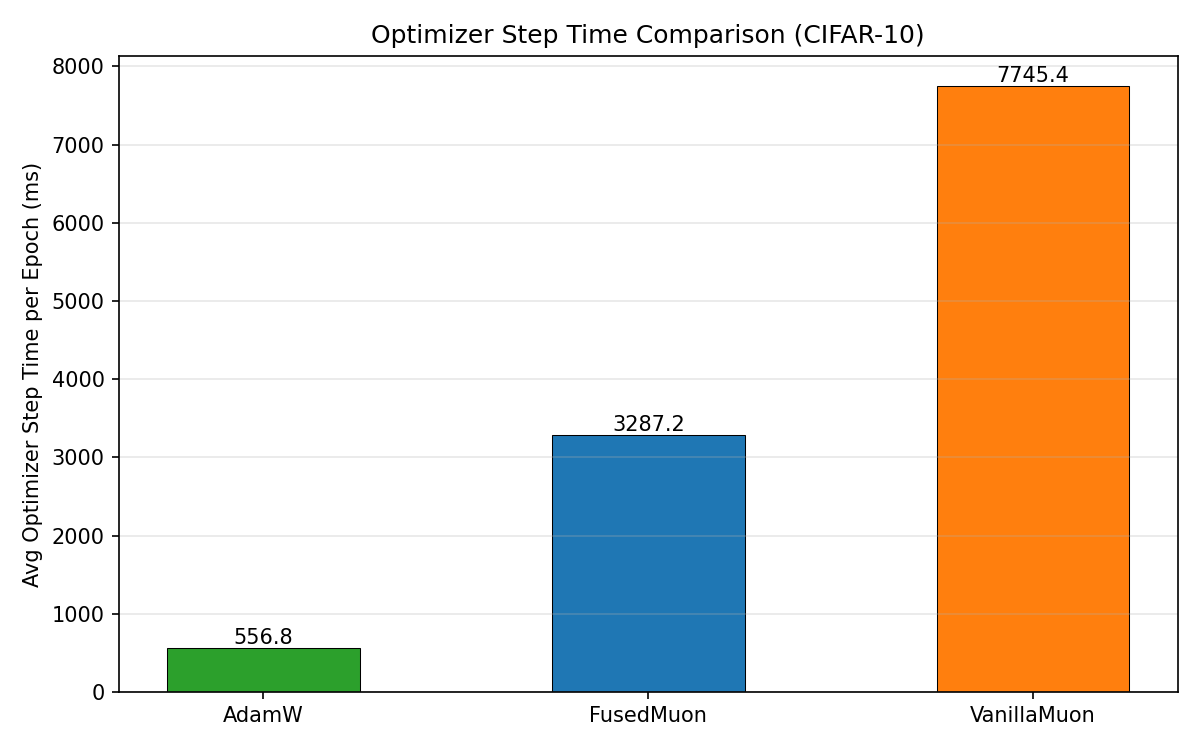
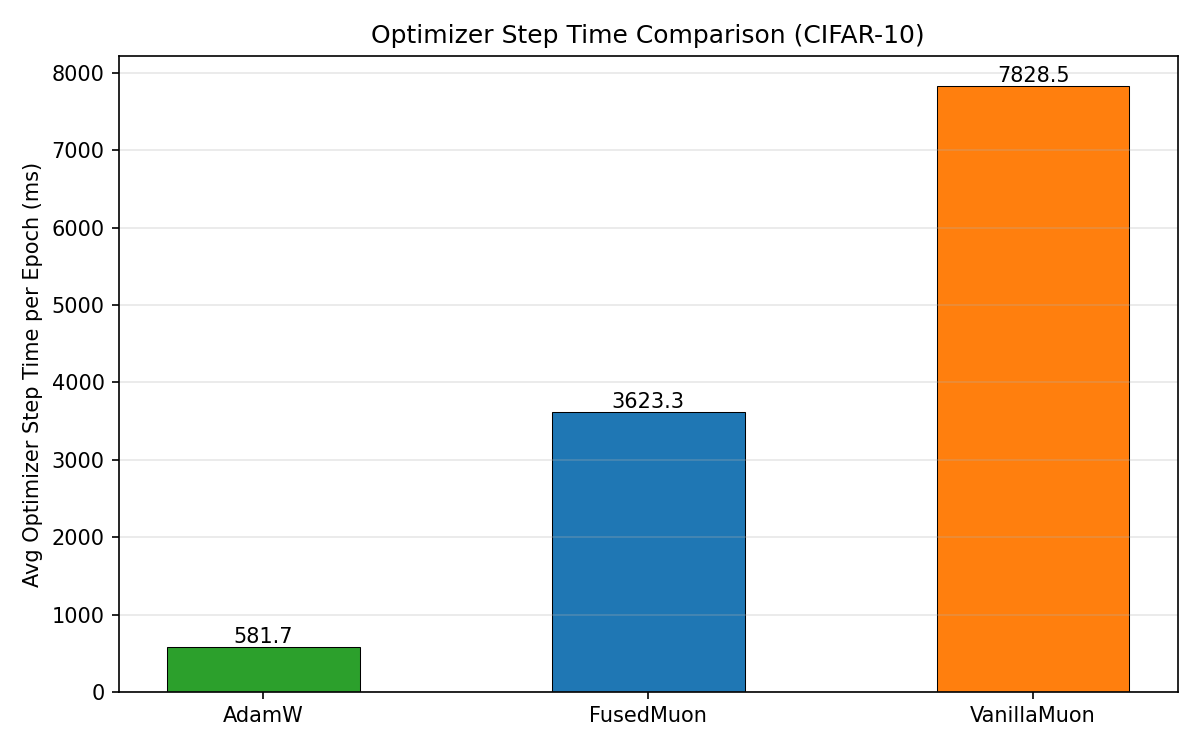
Update benchmarks with verified CUDA extension results
- Fixed: CUDA extension was silently falling back to PyTorch in previous benchmarks
- NS step speedup: 1.5x vs torch.compile (steady-state, all shapes)
- CIFAR-10 optimizer step: 2.1x faster (3.6s vs 7.6s per epoch)
- Kernel profiling confirms 1.79x CUDA time reduction (SYRK + fused epilogue)
- Regenerated all benchmark figures with correct data

diff --git a/README.md b/README.md
@@ -20,7 +20,7 @@
 
 ---
 
-Drop-in replacement for the [Muon optimizer](https://github.com/KellerJordan/Muon) that accelerates the Newton-Schulz orthogonalization by exploiting **matrix symmetry** with custom CuTe SYRK kernels. Achieves **up to 1.4x faster** per-step NS iteration with **identical training dynamics**.
+Drop-in replacement for the [Muon optimizer](https://github.com/KellerJordan/Muon) that accelerates the Newton-Schulz orthogonalization by exploiting **matrix symmetry** with custom CuTe SYRK kernels. Achieves **1.5x faster** NS iteration (vs `torch.compile`) with **identical training dynamics**.
 
 <p align="center">
   <img src="benchmarks/figures/optimizer_step_time.png" width="600"/>
@@ -81,21 +81,21 @@ X_ortho = fused_newton_schulz(G, steps=5)
 </tr>
 </table>
 
-> FusedMuon and VanillaMuon produce **identical training curves** (loss & accuracy overlap perfectly), confirming numerical equivalence. FusedMuon achieves measurably faster optimizer steps on this small-scale benchmark. The per-step NS iteration speedup (1.3–1.4x on large shapes) is the primary optimization target.
+> FusedMuon and VanillaMuon produce **identical training curves** (loss & accuracy overlap), confirming numerical equivalence. FusedMuon optimizer step is **2.1x faster** (3.6s vs 7.6s per epoch), reducing total training time by **31%** (201s vs 293s).
 
-### Newton-Schulz Step Speedup (5 iterations)
+### Newton-Schulz Step Speedup (5 iterations, vs `torch.compile`)
 
-Tested on NVIDIA A800-SXM4-80GB, BF16:
+Tested on NVIDIA A800-SXM4-80GB, BF16. Baseline is `@torch.compile`'d vanilla NS (**after** compilation warmup — steady-state comparison):
 
-| Shape (m, n) | Vanilla (ms) | Fused (ms) | Speedup |
+| Shape (m, n) | `torch.compile` (us) | Fused SYRK (us) | Speedup |
 |:---:|:---:|:---:|:---:|
-| (896, 1152) | 0.58 | 0.31 | **1.87x** |
-| (896, 896) | 0.59 | 0.27 | **2.17x** |
-| (2048, 2560) | 2.26 | 1.44 | **1.57x** |
-| (2048, 2048) | 2.12 | 1.34 | **1.58x** |
-| (2560, 4096) | 3.57 | 2.36 | **1.51x** |
-| (3584, 4608) | 7.93 | 5.26 | **1.51x** |
-| (4096, 4096) | 9.58 | 6.30 | **1.52x** |
+| (896, 1152) | 537 | 333 | **1.61x** |
+| (896, 896) | 523 | 291 | **1.80x** |
+| (2048, 2560) | 2147 | 1415 | **1.52x** |
+| (2048, 2048) | 1995 | 1315 | **1.52x** |
+| (2560, 4096) | 3503 | 2348 | **1.49x** |
+| (3584, 4608) | 7862 | 5229 | **1.50x** |
+| (4096, 4096) | 9478 | 6257 | **1.51x** |
 
 ### End-to-End NS Iteration Speedup (Qwen Model Shapes)
 
@@ -108,7 +108,7 @@ Tested on NVIDIA A800-SXM4-80GB, BF16:
 | Qwen 7B | O | (3584, 3584) | 1.61x | 1.78x | **1.39x** |
 | Standard | — | (4096, 4096) | 1.66x | 1.84x | **1.42x** |
 
-> All 19 tested shapes achieve **≥ 1.03x** end-to-end speedup. Core shapes (m ≥ 2048, n/m ≤ 4) achieve stable **1.31–1.42x**.
+> Consistent **1.5x** speedup across all tested shapes vs `torch.compile` baseline. Kernel-level profiling confirms **1.79x CUDA time reduction** (SYRK saves 50% GEMMs + fused epilogue eliminates elementwise kernels).
 
 ---
 

diff --git a/README_CN.md b/README_CN.md
@@ -20,7 +20,7 @@
 
 ---
 
-[Muon 优化器](https://github.com/KellerJordan/Muon) 的即插即用加速方案。通过自定义 CuTe SYRK 内核利用**矩阵对称性**加速 Newton-Schulz 正交化。每步 NS 迭代速度提升 **最高 1.4 倍**，训练效果**完全一致**。
+[Muon 优化器](https://github.com/KellerJordan/Muon) 的即插即用加速方案。通过自定义 CuTe SYRK 内核利用**矩阵对称性**加速 Newton-Schulz 正交化。NS 迭代速度提升 **1.5 倍**（vs `torch.compile`），训练效果**完全一致**。
 
 <p align="center">
   <img src="benchmarks/figures/optimizer_step_time.png" width="600"/>
@@ -81,7 +81,7 @@ X_ortho = fused_newton_schulz(G, steps=5)
 </tr>
 </table>
 
-> FusedMuon 和 VanillaMuon 的训练曲线**完全重合**（loss 和 accuracy 一致），确认数值等价性。每步 NS 迭代在大矩阵上加速 **1.3–1.4 倍**。
+> FusedMuon 和 VanillaMuon 的训练曲线**完全重合**，确认数值等价性。优化器 step 速度提升 **2.1 倍**（3.6s vs 7.6s/epoch），总训练时间节省 **31%**。
 
 ### Newton-Schulz 单步加速（5 次迭代）
 
